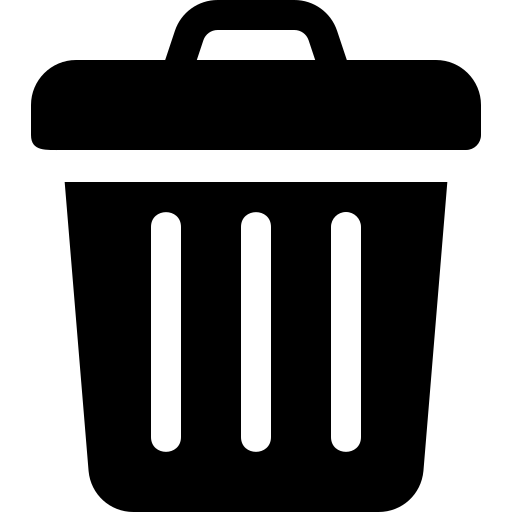
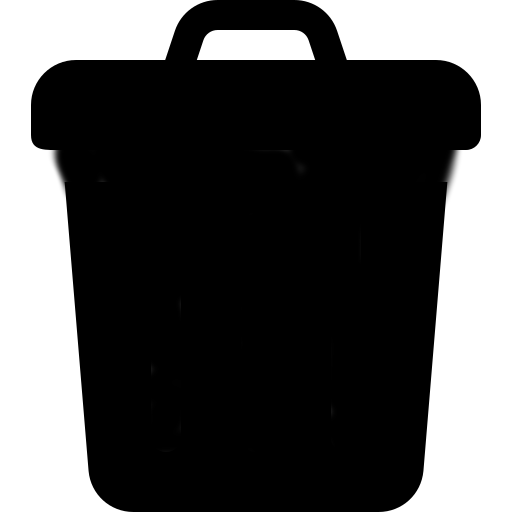
feat: retry waste calendar poll every 30s until first success, then 30 min

diff --git a/docs/systemoverview.md b/docs/systemoverview.md
@@ -14,7 +14,7 @@ C4Context
     System(ha, "Home Assistant", "Orchestration hub — time sync, service calls, calendar REST API")
     System_Boundary(device, "GeekMagic Mini-TV (ESP8266)") {
         Component(esphome, "ESPHome Runtime", "Wi-Fi, API, OTA, Logger")
-        Component(httpclient, "HTTP Client", "Polls HA Calendar REST API every 30 min")
+        Component(httpclient, "HTTP Client", "Polls HA Calendar REST API every 30 min (30 s retry until first success)")
         Component(display, "ST7789V Display Lambda", "Renders clock, waste icons, or alert overlay every 100 ms")
         Component(backlight, "PWM Backlight", "GPIO5 — brightness control")
         Component(globals, "State Globals", "Alert state + per-waste-type days-until-collection")
@@ -59,7 +59,7 @@ sequenceDiagram
     participant DISP as ST7789V Display
 
     HA-->>ESP: Time sync (homeassistant platform)
-    Note over ESP: Every 30 min (http_request + interval)
+    Note over ESP: every 30 min (30 s retry until first success) (http_request + interval)
     ESP->>HA: GET /api/calendars/calendar.ics?start=...&end=...
     HA-->>ESP: Events JSON (Glas/Restmüll/Papier/Leichtverpackungen)
     ESP->>ESP: Parse JSON → update days_* globals

diff --git a/README.md b/README.md
@@ -67,7 +67,7 @@ time is synced from Home Assistant. During the brief boot window it shows `Synci
 
 ### Waste-collection icons
 
-Every 30 minutes the device polls Home Assistant's calendar REST API for upcoming waste
+Every 30 minutes (retrying every 30 s until the first success) the device polls Home Assistant's calendar REST API for upcoming waste
 collection events. Starting 3 days before a collection, a small trash-can icon appears
 along the bottom of the display, tinted by waste type (white = Restmüll, yellow =
 Leichtverpackung, blue = Glas, green = Papier) with the number of days remaining shown on
@@ -143,3 +143,7 @@ tests/               # Placeholder tests
 - Gitleaks runs on every commit via pre-commit to block accidental secret exposure.
 - The web server is enabled for local debugging; disable it in production by removing
   the `web_server:` block from `src/common/minitv-common.yaml` (affects every device).
+
+## Original FW
+
+- Original Firmware from manufacturer can be found here: https://github.com/GeekMagicClock/smalltv-ultra

diff --git a/docs/requirements.md b/docs/requirements.md
@@ -62,7 +62,7 @@ Implement a flash alert overlay that:
   (`GET /api/calendars/calendar.ics?start=...&end=...`) directly over HTTP using the
   `http_request` component, authenticated with a Long-Lived Access Token
   (`!secret ha_token`, formatted as the full `Authorization: Bearer ...` header value).
-- Polling runs every 30 minutes (`interval:`), fetching a window from yesterday to +5 days.
+- Polling retries every 30 s until the first success, then runs every 30 minutes (`interval:` 30s + due-check; failures retry every 30 s), fetching a window from yesterday to +5 days.
 - The JSON response is parsed with ArduinoJson (`json:` component); for each event within
   0–3 days of today, the minimum "days until" value is stored per waste type in
   `globals:` (`days_restmuell`, `days_leichtverpackung`, `days_glas`, `days_papier`; `-1`
